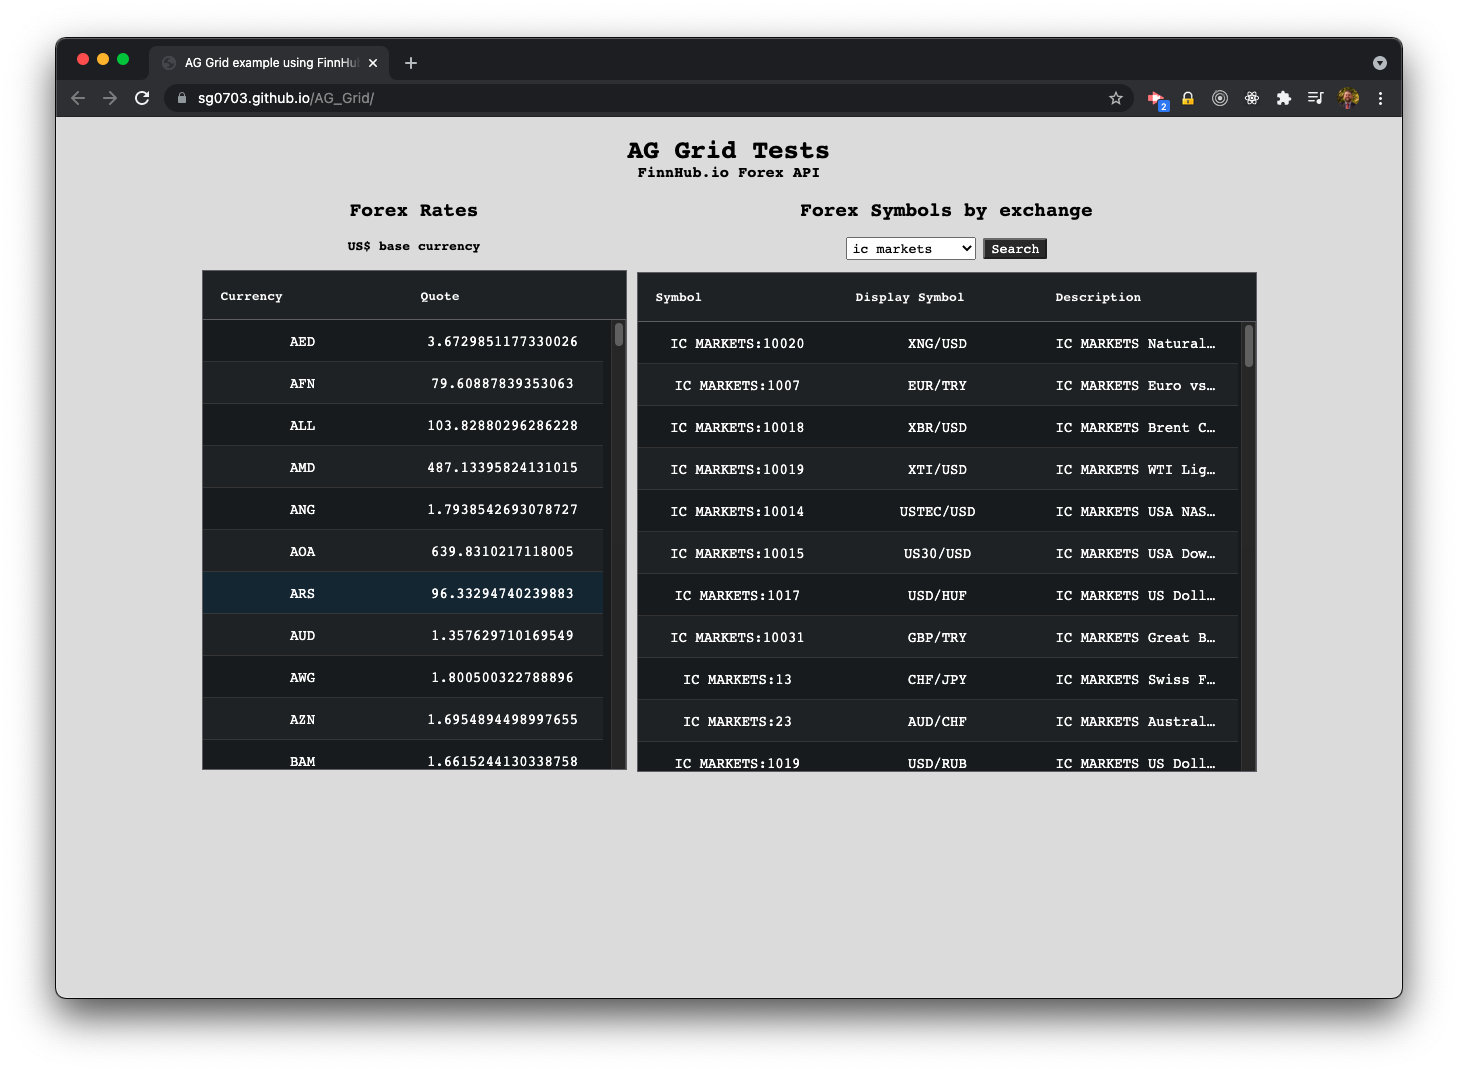
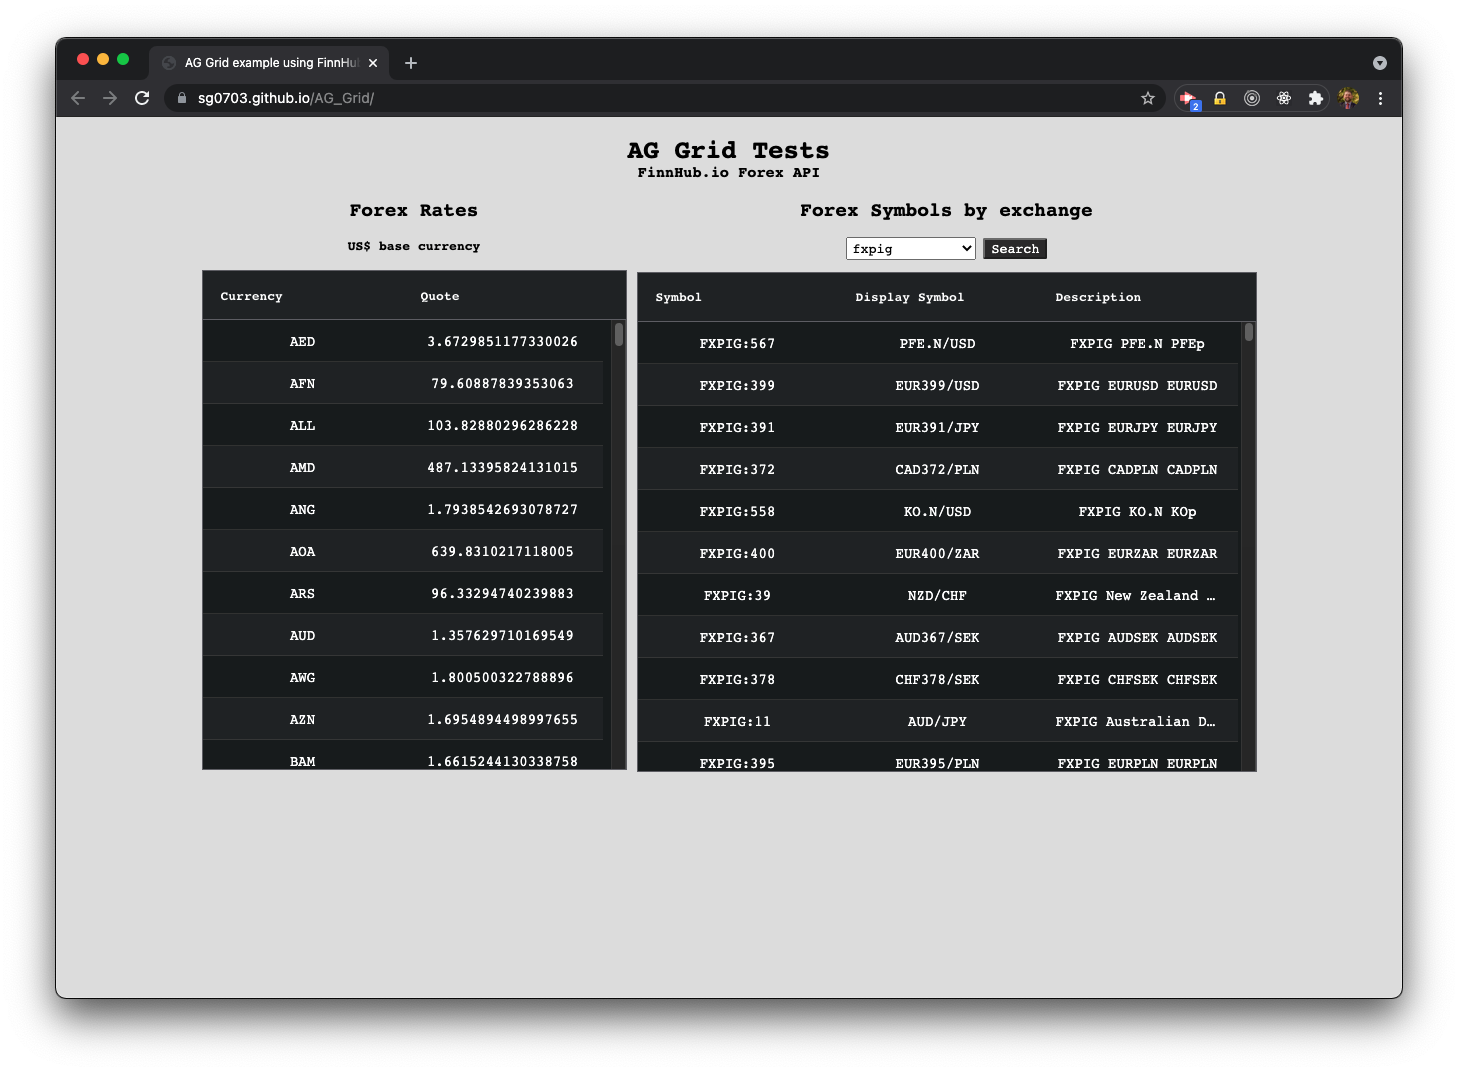
Updated styling for select and README

diff --git a/css/styles.css b/css/styles.css
@@ -26,6 +26,8 @@ button {
 
 select {
   padding: 2px;
+  background-color: rgb(48, 47, 47);
+  color: white;
 }
 
 .header {
